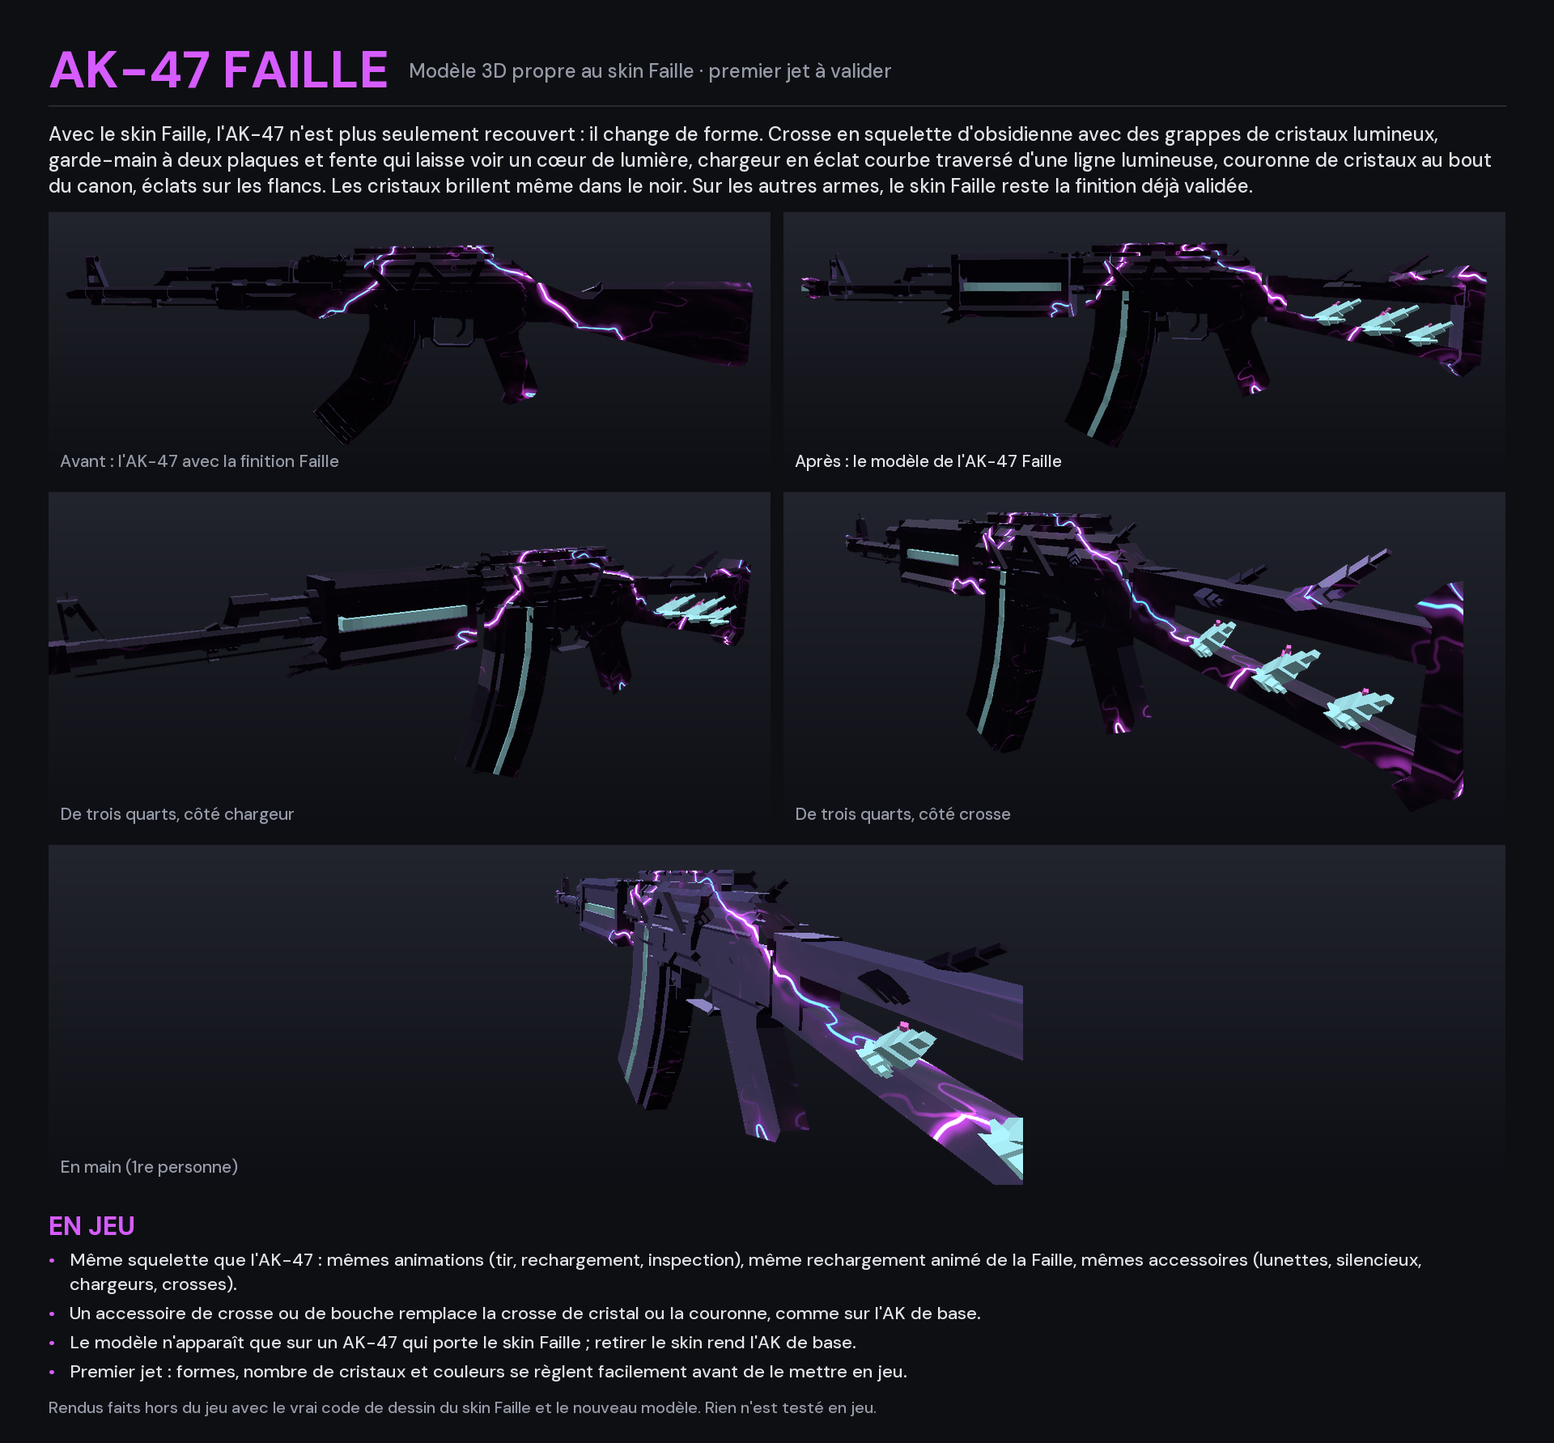
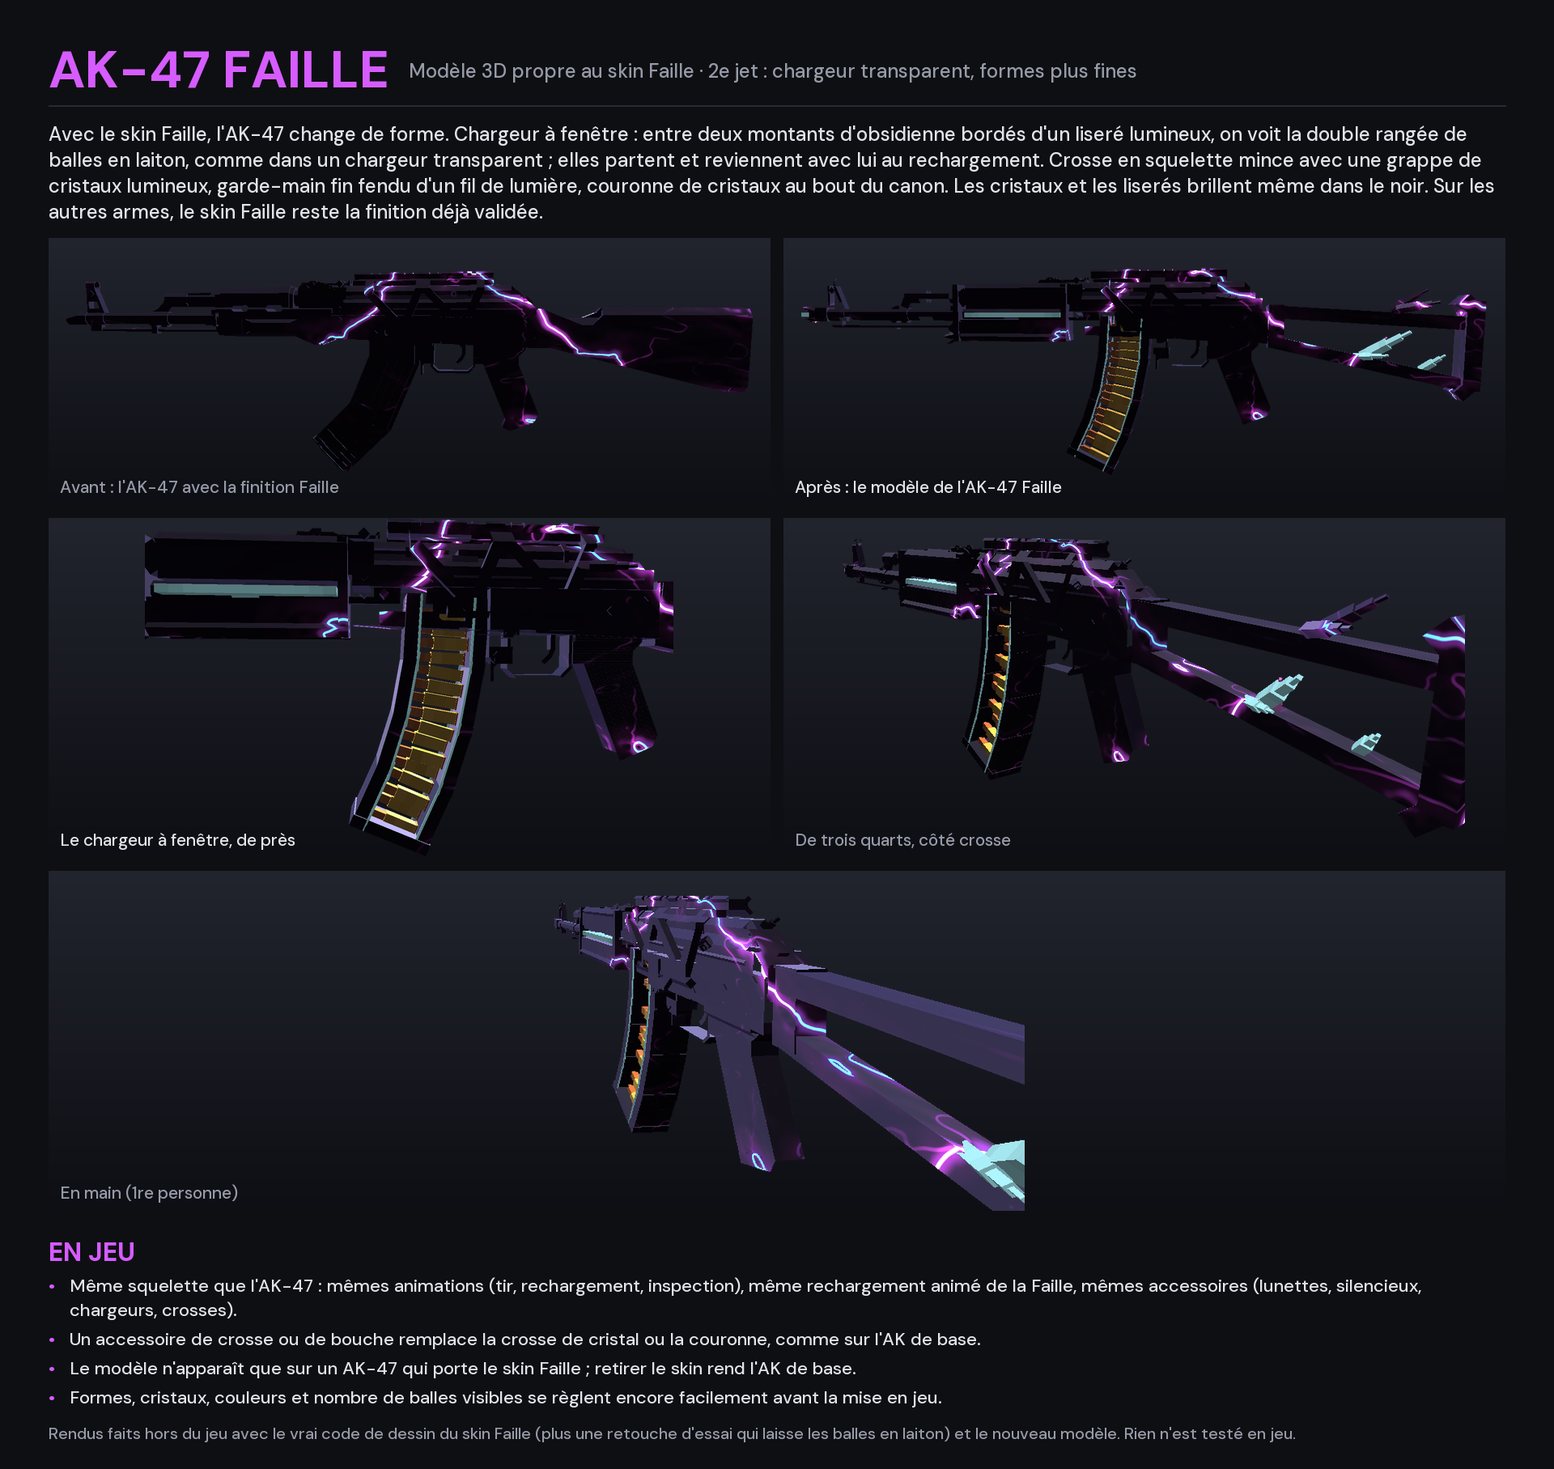
Maquettes : AK-47 Faille, 2e jet à valider (demande du propriétaire du 05/11) : chargeur transparent, formes plus fines
Chargeur à fenêtre : deux montants d'obsidienne bordés d'un liseré lumineux, double rangée de balles en laiton visible à travers (elles partent et reviennent avec le chargeur au rechargement ; marque de texture que le skin laisse en métal, retouche d'essai ak_faille/essai_laiton.py). Crosse, garde-main, cristaux et couronne affinés. Rien n'est ajouté au jeu avant validation. Rien testé en jeu.

diff --git a/maquettes/skins_premium/ak_faille/ak_faille_modele.py b/maquettes/skins_premium/ak_faille/ak_faille_modele.py
@@ -2,13 +2,19 @@
 
 python ak_faille_modele.py <ak47_geo.json> <ak47.png> <sortie>   -> sortie/ak47_faille_geo.json + sortie/ak47_faille.png
 
-Pièces refaites : crosse (squelette d'obsidienne et grappe de cristaux), garde-main (deux plaques et une fente qui laisse
-voir un cœur lumineux), chargeur (éclat courbe à cœur lumineux), bouche (couronne de cristaux). Le reste (carcasse, culasse,
-organes de visée, détente, poignée, canon, rails, chargeurs des accessoires) garde la forme de l'AK : le skin Faille le
-recouvre. Les pièces lumineuses sont dans des os « *_illuminated » : TaCZ les dessine en pleine lumière et le camo ne les
-touche pas. Chaque face a son propre morceau de texture (carte de positions des camos).
+Pièces refaites, en version fine (2e jet, 05/11) :
+- crosse : squelette d'obsidienne mince (deux poutres, montant, plaque de couche chanfreinée), une grappe de cristaux
+  lumineux dans le creux, un aileron fin de chaque côté ;
+- garde-main : deux plaques minces, arêtes chanfreinées, fente étroite qui laisse voir un fil de lumière ;
+- chargeur à fenêtre : deux montants d'obsidienne courbes, liseré lumineux le long de la fenêtre, et à l'intérieur les
+  balles en laiton (double rangée), visibles à travers comme dans un chargeur transparent ;
+- bouche : couronne de quatre cristaux fins, pointe lumineuse.
+Le reste (carcasse, culasse, organes de visée, détente, poignée, canon, rails, chargeurs des accessoires) garde la forme
+de l'AK : le skin Faille le recouvre. Les pièces lumineuses sont dans des os « *_illuminated » : TaCZ les dessine en
+pleine lumière et le camo ne les touche pas. Les balles sont dans le chargeur (elles partent et reviennent avec lui au
+rechargement) ; leur texture porte une marque (alpha 200) qui dit au skin de les laisser en laiton. Chaque face a son
+propre morceau de texture (carte de positions des camos).
 """
-import copy
 import json
 import math
 import random
@@ -21,6 +27,7 @@ SRC_GEO, SRC_TEX, OUT = Path(sys.argv[1]), Path(sys.argv[2]), Path(sys.argv[3])
 OUT.mkdir(parents=True, exist_ok=True)
 TW = TH = 512
 D = 2.0  # points de texture par pixel de modèle (faces neuves)
+MARQUE_LAITON = 200  # alpha des faces des balles : le skin les laisse en métal
 
 geo = json.load(open(SRC_GEO, encoding="utf-8"))
 g = geo["minecraft:geometry"][0]
@@ -33,14 +40,11 @@ bones = {b["name"]: b for b in g["bones"]}
 tex = Image.new("RGBA", (TW, TH), (0, 0, 0, 0))
 tex.paste(Image.open(SRC_TEX).convert("RGBA"), (0, 0))
 px = tex.load()
-rnd = random.Random(210)
-
-# rangées libres : à droite des 128 premiers points, puis tout le bas
-etageres = [[128, 0, 0, 128], [0, 128, 0, TH]]   # x de départ, y, hauteur de la rangée courante, y max de la zone
 curseur = {"x": 128, "y": 0, "h": 0, "x0": 128, "ymax": 128}
 
 
 def place(w, h):
+    """Rangement des faces : à droite des 128 premiers points, puis tout le bas de la texture."""
     w, h = max(1, math.ceil(w)), max(1, math.ceil(h))
     c = curseur
     if c["x"] + w + 1 > TW:
@@ -58,27 +62,34 @@ def place(w, h):
     return x, y, w, h
 
 
+TEINTES = {
+    "obsidienne": ((30, 26, 40), 10),
+    "cristal": ((70, 54, 100), 14),
+    "laiton": ((214, 164, 70), 12),
+    "cuivre": ((190, 104, 58), 10),
+    "lumiere": ((175, 245, 255), 0),
+    "lumiere_m": ((255, 120, 235), 0),
+}
+
+
 def peindre(x, y, w, h, matiere, graine):
     r = random.Random(graine)
+    base, bruit = TEINTES[matiere]
+    a = MARQUE_LAITON if matiere in ("laiton", "cuivre") else 255
     for i in range(w):
         for j in range(h):
-            if matiere == "obsidienne":
-                v = 30 + r.randint(0, 10)
-                c = (v, v - 4, v + 10, 255)
-            elif matiere == "cristal":
-                v = 60 + r.randint(0, 18)
-                c = (v + 10, v - 6, v + 40, 255)
-            else:  # lumière : couleur unie (cyan pâle une fois sur deux, sinon magenta), bords à peine plus sombres
-                u = (i + 0.5) / w
-                t = (j + 0.5) / h
-                bord = max(abs(u - 0.5), abs(t - 0.5)) * 2
-                teinte = (255, 120, 235) if matiere == "lumiere_m" else (175, 245, 255)
-                f = 1.0 - 0.18 * max(0.0, bord - 0.6) / 0.4
-                c = tuple(int(v * f) for v in teinte) + (255,)
-            px[x + i, y + j] = c
+            u, t = (i + 0.5) / w, (j + 0.5) / h
+            bord = max(abs(u - 0.5), abs(t - 0.5)) * 2
+            if matiere.startswith("lumiere"):
+                f = 1.0 - 0.15 * max(0.0, bord - 0.6) / 0.4
+                c = tuple(int(v * f) for v in base)
+            else:
+                d = r.randint(-bruit, bruit)
+                c = tuple(max(0, min(255, v + d)) for v in base)
+            px[x + i, y + j] = c + (a,)
 
 
-compte = {"n": 0}
+compte = {"n": 0, "cristaux": 0}
 
 
 def cube(origine, taille, matiere="obsidienne", rot=None, pivot=None):
@@ -97,16 +108,16 @@ def cube(origine, taille, matiere="obsidienne", rot=None, pivot=None):
     return c
 
 
-def eclat(base, dirz_deg, dirx_deg, long, ep, matiere="cristal"):
-    """Cristal : prisme fin partant de base, incliné (rot x, rot y), avec une pointe plus fine."""
+def eclat(base, rx, ry, long, ep, matiere="cristal"):
+    """Cristal effilé : trois étages qui se resserrent le long de son axe (rx > 0 : vers le haut), même pivot (la base)."""
     bx, by, bz = base
     if matiere == "lumiere":
-        compte["cristaux"] = compte.get("cristaux", 0) + 1
+        compte["cristaux"] += 1
         matiere = "lumiere_m" if compte["cristaux"] % 3 == 0 else "lumiere"
     out, z0 = [], bz
-    for (k, part) in ((1.0, 0.55), (0.66, 0.28), (0.34, 0.22)):
+    for (k, part) in ((1.0, 0.55), (0.62, 0.27), (0.3, 0.18)):
         e = ep * k
-        out.append(cube((bx - e / 2, by - e / 2, z0), (e, e, long * part), matiere, rot=(dirz_deg, dirx_deg, 45), pivot=(bx, by, bz)))
+        out.append(cube((bx - e / 2, by - e / 2, z0), (e, e, long * part), matiere, rot=(rx, ry, 45), pivot=(bx, by, bz)))
         z0 += long * part
     return out
 
@@ -122,92 +133,101 @@ def vider(*noms):
         bones[n]["cubes"] = []
 
 
-# ------------------------------------------------------------------ crosse : squelette d'obsidienne, grappe de cristaux
+# ------------------------------------------------------------------ crosse : squelette mince, une grappe de cristaux
 vider("wood", "bone", "steel", "group16")
-crosse = []
-crosse.append(cube((-0.7, 8.25, 10.0), (1.4, 1.0, 10.9), rot=(-3.5, 0, 0), pivot=(0, 8.75, 10.0)))          # poutre haute
-crosse.append(cube((-0.55, 6.5, 10.0), (1.1, 0.9, 10.95), rot=(-12.5, 0, 0), pivot=(0, 6.95, 10.0)))         # poutre basse
-crosse.append(cube((-0.65, 6.55, 9.75), (1.3, 2.75, 1.1)))                                                   # montant
-crosse.append(cube((-0.9, 4.25, 20.35), (1.8, 5.2, 1.0)))                                                    # plaque de couche
-crosse.append(cube((-0.9, 8.6, 20.0), (1.8, 0.9, 1.3), rot=(-45, 0, 0), pivot=(0, 9.05, 20.65)))             # chanfrein haut
-crosse.append(cube((-0.9, 3.9, 20.0), (1.8, 0.8, 1.3), rot=(45, 0, 0), pivot=(0, 4.3, 20.65)))             # chanfrein bas
-# ailerons d'éclats vers l'arrière, sur les côtés de la poutre haute (hors de la ligne de visée)
+crosse = [
+    cube((-0.55, 8.35, 10.0), (1.1, 0.75, 10.8), rot=(-3.5, 0, 0), pivot=(0, 8.7, 10.0)),         # poutre haute
+    cube((-0.45, 6.6, 10.0), (0.9, 0.7, 10.9), rot=(-12.5, 0, 0), pivot=(0, 6.95, 10.0)),         # poutre basse
+    cube((-0.5, 6.6, 9.8), (1.0, 2.55, 0.9)),                                                      # montant
+    cube((-0.75, 4.3, 20.4), (1.5, 5.0, 0.9)),                                                     # plaque de couche
+    cube((-0.75, 8.65, 20.05), (1.5, 0.75, 1.15), rot=(-45, 0, 0), pivot=(0, 9.0, 20.6)),          # chanfrein haut
+    cube((-0.75, 4.0, 20.05), (1.5, 0.7, 1.15), rot=(45, 0, 0), pivot=(0, 4.35, 20.6)),            # chanfrein bas
+]
 for sg in (-1, 1):
-    crosse += eclat((sg * 0.7, 8.9, 16.5), 34, sg * 18, 2.6, 0.5)
-    crosse += eclat((sg * 0.6, 8.6, 13.0), 24, sg * 24, 1.9, 0.45)
+    crosse += eclat((sg * 0.55, 8.85, 16.8), 30, sg * 16, 2.2, 0.36)                              # ailerons fins
 bones["wood"]["cubes"] = crosse
-# grappe de cristaux lumineux dans le creux de la crosse
-grappe = []
+
+
 def y_poutre(z):
-    return 7.35 - (z - 10.0) * 0.222
+    return 7.3 - (z - 10.0) * 0.222
 
 
-for (bz, lg) in ((12.8, 2.1), (15.4, 2.5), (17.9, 1.9)):
-    by = y_poutre(bz) - 0.1
-    grappe += eclat((0, by, bz), 42, 0, lg * 1.2, 0.6, "lumiere")
-    grappe += eclat((0.15, by, bz - 0.3), 28, 25, lg * 0.85, 0.42, "lumiere")
-    grappe += eclat((-0.15, by, bz + 0.3), 62, -22, lg * 0.7, 0.38, "lumiere")
+grappe = []
+bz = 15.2
+by = y_poutre(bz) - 0.05
+grappe += eclat((0, by, bz), 46, 0, 3.0, 0.5, "lumiere")
+grappe += eclat((0.12, by, bz - 0.5), 26, 20, 1.9, 0.32, "lumiere")
+grappe += eclat((-0.12, by, bz + 0.5), 68, -18, 1.6, 0.3, "lumiere")
+bz = 18.4
+by = y_poutre(bz) - 0.05
+grappe += eclat((0, by, bz), 55, 0, 1.6, 0.34, "lumiere")
 nouvel_os("crosse_cristaux_illuminated", "stock_default", [0, 7, 15], grappe)
 
-# ------------------------------------------------------------------ garde-main : deux plaques, fente, cœur lumineux
+# ------------------------------------------------------------------ garde-main : plaques minces, fente étroite, fil de lumière
 vider("wood4", "group26", "group27")
-gm = []
-gm.append(cube((-1.05, 6.95, -9.5), (2.1, 1.4, 7.25)))                                                       # plaque basse
-gm.append(cube((-0.95, 8.95, -9.0), (1.9, 1.55, 6.75)))                                                      # plaque haute (en retrait)
-gm.append(cube((-1.05, 6.95, -10.3), (2.1, 1.0, 1.0), rot=(-40, 0, 0), pivot=(0, 7.45, -9.5)))             # biseau avant bas
-gm.append(cube((-0.95, 9.4, -9.7), (1.9, 1.1, 0.9), rot=(35, 0, 0), pivot=(0, 9.95, -9.0)))                 # biseau avant haut
-for k in range(3):
-    for sg in (-1, 1):
-        gm.append(cube((sg * 1.05 - (0.12 if sg > 0 else -0.0), 7.15, -8.6 + k * 2.1), (0.12, 1.0, 1.3), "cristal"))   # nervures
+gm = [
+    cube((-0.9, 7.05, -9.4), (1.8, 1.2, 7.0)),                                                     # plaque basse
+    cube((-0.85, 8.9, -9.0), (1.7, 1.3, 6.6)),                                                     # plaque haute (en retrait)
+    cube((-0.9, 7.05, -10.15), (1.8, 0.9, 0.9), rot=(-40, 0, 0), pivot=(0, 7.5, -9.4)),           # biseau avant bas
+    cube((-0.85, 9.3, -9.65), (1.7, 0.95, 0.8), rot=(35, 0, 0), pivot=(0, 9.8, -9.0)),            # biseau avant haut
+    cube((-1.0, 6.9, -9.85), (2.0, 3.55, 0.35)),                                                   # bague avant
+    cube((-1.0, 6.9, -2.75), (2.0, 3.55, 0.35)),                                                   # bague arrière
+]
 for sg in (-1, 1):
-    gm.append(cube((sg * 0.85 - 0.3, 10.05, -9.5), (0.6, 0.6, 7.25), rot=(0, 0, 45), pivot=(sg * 0.85, 10.35, -6)))   # arêtes chanfreinées
-    gm.append(cube((sg * 0.95 - 0.3, 6.85, -9.5), (0.6, 0.6, 7.25), rot=(0, 0, 45), pivot=(sg * 0.95, 7.15, -6)))
-gm.append(cube((-1.15, 6.75, -9.95), (2.3, 3.95, 0.5)))                                                      # bague avant
-gm.append(cube((-1.15, 6.75, -2.7), (2.3, 3.95, 0.45)))                                                      # bague arrière
-# éclats qui sortent de l'avant du garde-main, vers l'avant et le bas
-for sg, rx, ry in ((-1, 30, -18), (1, 26, 16), (0, 40, 0)):
-    gm += eclat((sg * 0.6, 7.1, -9.9), 180 + rx, ry, 1.6, 0.45)
+    gm.append(cube((sg * 0.72 - 0.22, 10.0, -9.0), (0.44, 0.44, 6.6), rot=(0, 0, 45), pivot=(sg * 0.72, 10.22, -6)))  # arêtes
+    gm.append(cube((sg * 0.78 - 0.22, 6.95, -9.4), (0.44, 0.44, 7.0), rot=(0, 0, 45), pivot=(sg * 0.78, 7.17, -6)))
+for sg, ry in ((-1, -16), (1, 16)):
+    gm += eclat((sg * 0.45, 7.25, -9.9), 205, ry, 1.3, 0.32)                                       # deux éclats vers l'avant
 bones["wood4"]["cubes"] = gm
-nouvel_os("garde_main_coeur_illuminated", "handguard2", [0, 8.7, -6],
-          [cube((-1.0, 8.4, -9.2), (2.0, 0.5, 6.6), "lumiere")])
+nouvel_os("garde_main_coeur_illuminated", "handguard2", [0, 8.6, -6],
+          [cube((-0.95, 8.4, -9.1), (1.9, 0.3, 6.3), "lumiere")])
 
-# ------------------------------------------------------------------ chargeur : éclat courbe à cœur lumineux
+# ------------------------------------------------------------------ chargeur à fenêtre, balles visibles
 vider("group4", "group5")
-mag, coeur = [], []
-haut_y, haut_z = 8.1, 1.3
+mag, liseres = [], []
+y, z = 8.1, 1.3
 angle = 0.0
-y, z = haut_y, haut_z
 for i in range(4):
     lg = 2.25
-    a_mid = angle + 3.5
-    # segment : boîte posée sous le point (y, z), tournée autour de x au point
-    mag.append(cube((-0.95, y - lg - 0.3, z - 1.55), (1.9, lg + 0.6, 3.1), rot=(-a_mid, 0, 0), pivot=(0, y, z)))
-    mag.append(cube((-0.6, y - lg - 0.3, z + 1.45), (1.2, lg + 0.6, 0.45), "cristal", rot=(-a_mid, 0, 0), pivot=(0, y, z)))   # arête arrière
-    mag.append(cube((-0.6, y - lg - 0.3, z - 1.9), (1.2, lg + 0.6, 0.45), "cristal", rot=(-a_mid, 0, 0), pivot=(0, y, z)))    # arête avant
-    coeur.append(cube((-1.0, y - lg - 0.3, z - 0.2), (2.0, lg + 0.6, 0.4), "lumiere", rot=(-a_mid, 0, 0), pivot=(0, y, z)))
-    rad = math.radians(a_mid)
-    y -= lg * math.cos(rad)
-    z -= lg * math.sin(rad)
+    a = angle + 3.5
+    rot, piv = (-a, 0, 0), (0, y, z)
+    h0, hh = y - lg - 0.3, lg + 0.6
+    mag.append(cube((-0.95, h0, z - 1.55), (1.9, hh, 0.5), rot=rot, pivot=piv))                    # montant avant
+    mag.append(cube((-0.95, h0, z + 1.05), (1.9, hh, 0.5), rot=rot, pivot=piv))                    # montant arrière
+    for sg in (-1, 1):
+        x0 = 0.95 if sg > 0 else -1.0
+        liseres.append(cube((x0, h0, z - 1.05), (0.05, hh, 0.09), "lumiere", rot=rot, pivot=piv))  # liseré de la fenêtre
+        liseres.append(cube((x0, h0, z + 0.96), (0.05, hh, 0.09), "lumiere", rot=rot, pivot=piv))
+    # balles : double rangée, couchées, pointe vers le canon
+    for k in range(4):
+        yk = y - 0.32 - k * 0.56
+        bx = 0.24 if (k + i) % 2 == 0 else -0.24
+        mag.append(cube((bx - 0.23, yk - 0.23, z - 0.38), (0.46, 0.46, 1.3), "laiton", rot=rot, pivot=piv))
+        mag.append(cube((bx - 0.25, yk - 0.25, z + 0.92), (0.5, 0.5, 0.06), "cuivre", rot=rot, pivot=piv))           # culot
+        mag.append(cube((bx - 0.17, yk - 0.17, z - 0.9), (0.34, 0.34, 0.54), "cuivre", rot=rot, pivot=piv))
+        mag.append(cube((bx - 0.09, yk - 0.09, z - 1.05), (0.18, 0.18, 0.17), "cuivre", rot=rot, pivot=piv))
+    r = math.radians(a)
+    y -= lg * math.cos(r)
+    z -= lg * math.sin(r)
     angle += 7.0
-# pointe de cristal au bas du chargeur
-mag += eclat((0, y + 0.1, z), -105, 0, 1.3, 0.6)
+r = math.radians(angle - 3.5)
+mag.append(cube((-1.0, y - 0.3, z - 1.6), (2.0, 0.45, 3.2), rot=(-(angle - 3.5), 0, 0), pivot=(0, y, z)))   # plaque du fond
 bones["group4"]["cubes"] = mag
-nouvel_os("chargeur_coeur_illuminated", "d_mag", [0, 8, -8], coeur)
+nouvel_os("chargeur_fenetre_illuminated", "d_mag", [0, 8, -8], liseres)
 
-# ------------------------------------------------------------------ bouche : couronne de cristaux
+# ------------------------------------------------------------------ bouche : couronne fine
 vider("muzzle_default")
-bouche = [cube((-0.5, 8.05, -20.2), (1.0, 1.0, 0.95)), cube((-0.42, 8.13, -20.8), (0.84, 0.84, 0.6))]
-for k in range(5):
-    a = k * 72
-    ox, oy = 0.42 * math.cos(math.radians(a)), 8.55 + 0.42 * math.sin(math.radians(a))
-    bouche += eclat((ox, oy, -20.3), 180 - 14 * math.sin(math.radians(a)), 14 * math.cos(math.radians(a)), 1.1, 0.32)
+bouche = [cube((-0.45, 8.1, -20.15), (0.9, 0.9, 0.85)), cube((-0.36, 8.19, -20.7), (0.72, 0.72, 0.55))]
+for k in range(4):
+    an = math.radians(45 + k * 90)
+    bouche += eclat((0.38 * math.cos(an), 8.55 + 0.38 * math.sin(an), -20.25), 180 - 12 * math.sin(an), 12 * math.cos(an), 0.95, 0.26)
 bones["muzzle_default"]["cubes"] = bouche
 nouvel_os("bouche_cristaux_illuminated", "muzzle_default", [0, 8.55, -20.8],
-          [cube((-0.18, 8.37, -21.6), (0.36, 0.36, 0.8), "lumiere")])
+          [cube((-0.14, 8.41, -21.45), (0.28, 0.28, 0.7), "lumiere")])
 
-# ------------------------------------------------------------------ carcasse : deux éclats sur les flancs du couvercle
+# ------------------------------------------------------------------ carcasse : un éclat fin sur chaque flanc du couvercle
 for sg in (-1, 1):
-    bones["cover"]["cubes"] = bones["cover"]["cubes"] + eclat((sg * 0.9, 9.6, 6.5), 22, sg * 35, 2.0, 0.42)
+    bones["cover"]["cubes"] = bones["cover"]["cubes"] + eclat((sg * 0.88, 9.6, 6.8), 20, sg * 32, 1.6, 0.32)
 
 json.dump(geo, open(OUT / "ak47_faille_geo.json", "w", encoding="utf-8"), indent=1)
 tex.save(OUT / "ak47_faille.png")

diff --git a/maquettes/skins_premium/ak_faille/essai_laiton.py b/maquettes/skins_premium/ak_faille/essai_laiton.py
@@ -1,0 +1,33 @@
+"""Copie d'essai du code commun des camos : les faces marquées (alpha 200, balles du chargeur à fenêtre) restent en métal."""
+import sys
+from pathlib import Path
+
+R, S = Path(sys.argv[1]), Path(sys.argv[2])
+lib = (R / "modules/armes/src/client/resources/assets/minecraft/shaders/include/heralisz_camo.glsl").read_text(encoding="utf-8")
+
+
+def rep(t, a, b):
+    assert t.count(a) == 1, a
+    return t.replace(a, b)
+
+
+lib = rep(lib, "vec3 BASE_COL = vec3(0.0);\n", "vec3 BASE_COL = vec3(0.0);\n// alpha de la texture d'origine au point dessiné (200/255 : balle d'un chargeur à fenêtre, laissée en métal)\nfloat BASE_A = 1.0;\n")
+laiton = """// balles d'un chargeur à fenêtre (texture marquée : alpha 200) : métal poli de la couleur de la texture (laiton, cuivre)
+bool marqueLaiton() { return abs(BASE_A - 200.0 / 255.0) < 0.02; }
+vec3 laitonPoli(out vec3 em) {
+    vec3 n = normalize(viewNormal);
+    vec3 env = studio(n);
+    float fres = pow(1.0 - clamp(abs(n.z), 0.0, 1.0), 2.0);
+    em = vec3(0.0);
+    return BASE_COL * (0.5 + 0.5 * env.g) + env * BASE_COL * (0.25 + 0.5 * fres);
+}
+
+"""
+lib = rep(lib, "bool estChargeur() { return PART > 0.62 && PART < 0.88; }\n", "bool estChargeur() { return PART > 0.62 && PART < 0.88; }\n\n" + laiton)
+lib = rep(lib, "vec3 faille(vec3 p, out vec3 em) {\n    float t = CamoTime;\n", "vec3 faille(vec3 p, out vec3 em) {\n    if (estChargeur() && marqueLaiton()) return laitonPoli(em);\n    float t = CamoTime;\n")
+(S / "ak" / "inclus_laiton.glsl").write_text(lib, encoding="utf-8")
+h = (S / "rendu2" / "apercu.html").read_text(encoding="utf-8")
+if "BASE_A = base.a;" not in h:
+    h = rep(h, "    BASE_COL = base.rgb;\n", "    BASE_COL = base.rgb;\n    BASE_A = base.a;\n")
+(S / "rendu2" / "apercu.html").write_text(h, encoding="utf-8")
+print("ok")

diff --git a/maquettes/skins_premium/LISEZMOI.md b/maquettes/skins_premium/LISEZMOI.md
@@ -55,3 +55,7 @@ Demande du propriétaire (« comme sur Valorant, un vrai modèle ») : avec le s
 (même squelette : animations, rechargement, accessoires ; pièces lumineuses dans des os « *_illuminated »).
 En jeu (après validation) : TaCZ sait déjà donner à une arme un autre affichage (`IGun.setGunDisplayId`) ; le modèle irait
 dans le gunpack `heralisz_skins` comme nouvel affichage, posé sur l'AK quand le skin Faille y est appliqué et retiré avec lui.
+2e jet (05/11, demande du propriétaire : chargeur transparent, plus propre et plus fin) : chargeur à fenêtre (montants, liseré
+lumineux, balles en laiton visibles, qui partent et reviennent avec lui) ; les balles portent une marque de texture (alpha 200)
+que le skin laisse en métal : `ak_faille/essai_laiton.py` (retouche d'essai du code commun des camos, à reporter dans
+`outils/camo_gabarit.fsh` après validation : `BASE_A`, `marqueLaiton`, `laitonPoli`).
